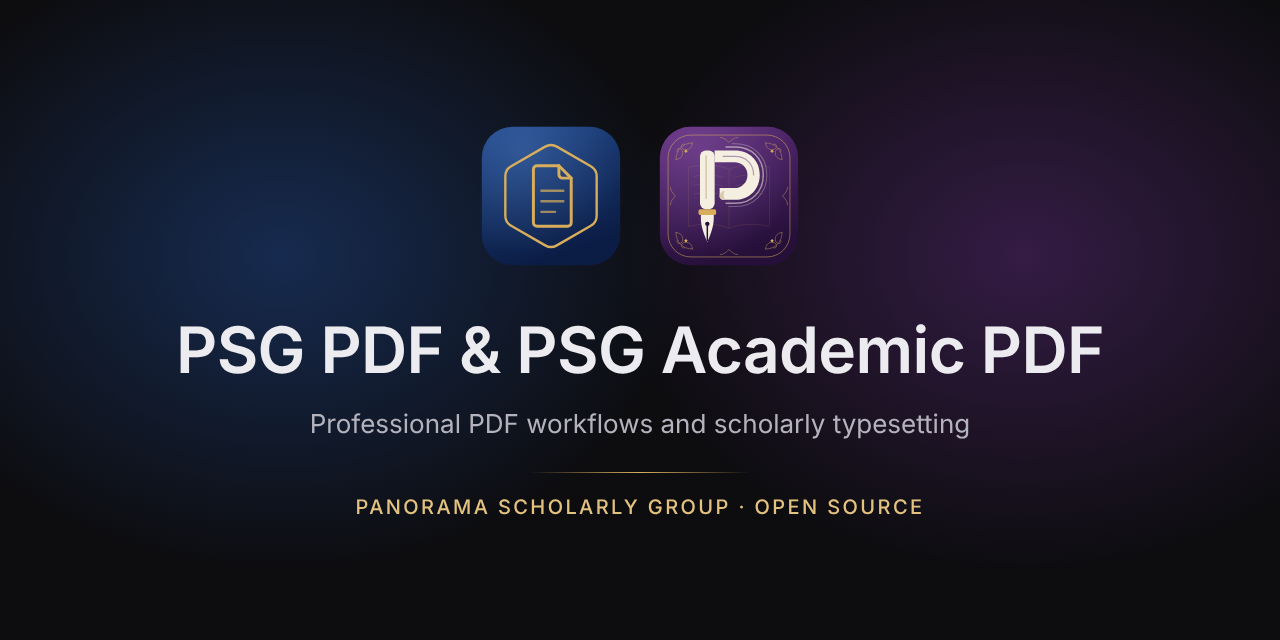
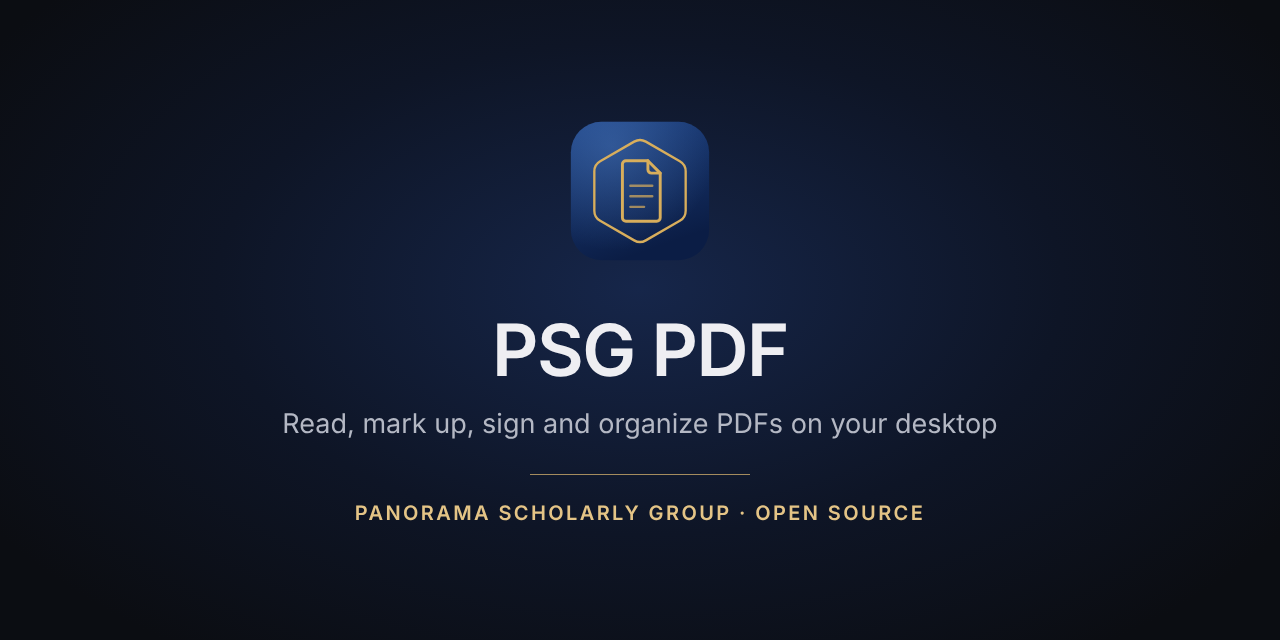
docs(site): the website presents PSG PDF alone
PSG Academic PDF is being retired, so the product site at
pdf.panorama-sg.com now presents only PSG PDF: one product's features, a
four-step workflow from opening a document to sending it, PSG PDF
downloads only, and no comparison section, Academic build tab or links.
The social preview card shows the PSG PDF icon alone.

Changelog: skip

Claude-Session: https://claude.ai/code/session_01VEnVhQqr23W3g1e5rYXvms

Changed region(s): [[0.0938, 0.0938, 0.9375, 0.8125]]

diff --git a/docs/index.html b/docs/index.html
@@ -3,14 +3,14 @@
 <head>
 <meta charset="utf-8">
 <meta name="viewport" content="width=device-width, initial-scale=1">
-<title>PSG PDF &amp; PSG Academic PDF</title>
-<meta name="description" content="Two open-source desktop applications from Panorama Scholarly Group: PSG PDF for professional PDF work, and PSG Academic PDF for typesetting accepted articles with pdfLaTeX.">
+<title>PSG PDF</title>
+<meta name="description" content="PSG PDF is an open-source desktop app from Panorama Scholarly Group for reading, commenting on, signing, organizing and protecting PDFs on Windows, macOS and Linux.">
 <meta name="theme-color" content="#181713">
 <meta property="og:type" content="website">
 <meta property="og:url" content="https://pdf.panorama-sg.com/">
 <link rel="canonical" href="https://pdf.panorama-sg.com/">
-<meta property="og:title" content="PSG PDF &amp; PSG Academic PDF">
-<meta property="og:description" content="Open-source desktop applications for professional PDF workflows and scholarly typesetting.">
+<meta property="og:title" content="PSG PDF">
+<meta property="og:description" content="An open-source desktop app for professional PDF work.">
 <meta property="og:image" content="https://pdf.panorama-sg.com/images/psg/social-preview.png">
 <meta name="twitter:card" content="summary_large_image">
 <link rel="icon" href="images/psg/psg-pdf.svg" type="image/svg+xml">
@@ -91,7 +91,7 @@ section { border-top: 1px solid var(--rule); padding-block: clamp(56px, 8vw, 112
 .mobile-nav summary::-webkit-details-marker { display: none; }
 
 .hero { border: 0; padding-block: clamp(44px, 7vw, 96px); }
-.hero .wrap, .screen-layout { display: grid; grid-template-columns: minmax(0, .95fr) minmax(0, 1.3fr); align-items: center; gap: clamp(28px, 5vw, 76px); }
+.hero .wrap { display: grid; grid-template-columns: minmax(0, .95fr) minmax(0, 1.3fr); align-items: center; gap: clamp(28px, 5vw, 76px); }
 .hero h1 { font-size: clamp(42px, 5vw, 76px); line-height: 1.02; letter-spacing: -.045em; }
 :lang(zh) .hero h1 { font-size: clamp(36px, 4.1vw, 60px); line-height: 1.18; letter-spacing: -.025em; }
 .hero .lede { margin-top: 20px; max-width: 42ch; }
@@ -105,6 +105,8 @@ section { border-top: 1px solid var(--rule); padding-block: clamp(56px, 8vw, 112
 
 .prod-row { display: grid; grid-template-columns: minmax(0, 1fr) minmax(0, 3fr); gap: clamp(20px, 4vw, 52px); border-top: 1px solid var(--rule); padding-block: 32px; }
 .prod-row:last-child { padding-bottom: 0; }
+.prod-row.solo { border-top: 0; padding-top: 0; }
+.prod-id h2 { font-size: clamp(28px, 3.2vw, 40px); line-height: 1.12; }
 .prod-id img { width: 44px; height: 44px; margin-bottom: 12px; }
 .prod-id p { color: var(--muted); font-size: 14px; margin-top: 8px; }
 .prod-id .note { border-left: 1px solid var(--edge); margin-top: 16px; padding-left: 12px; }
@@ -112,11 +114,12 @@ section { border-top: 1px solid var(--rule); padding-block: clamp(56px, 8vw, 112
 .card h4 { margin: 0 0 6px; font: 600 16px/1.3 var(--sans); }
 .card p { font-size: 14px; color: var(--muted); }
 
-#screens { background: var(--panel); }
-.screen-layout { grid-template-columns: minmax(0, .75fr) minmax(0, 1.25fr); }
-.screen-copy .lede { margin: 16px 0; }
-.screen-copy ul { margin: 0; padding-left: 20px; color: var(--muted); font-size: 15px; }
-.screen-copy li + li { margin-top: 8px; }
+#workflow { background: var(--panel); }
+.steps { list-style: none; counter-reset: step; margin: 0; padding: 0; display: grid; grid-template-columns: repeat(4, minmax(0, 1fr)); gap: clamp(20px, 3vw, 40px); }
+.steps li { counter-increment: step; border-top: 2px solid var(--edge); padding-top: 16px; }
+.steps li::before { content: counter(step); display: block; font: 600 40px/1 var(--serif); color: var(--accent); margin-bottom: 12px; }
+.steps h3 { font-size: 21px; }
+.steps p { margin-top: 8px; font-size: 14px; color: var(--muted); }
 
 .channel-line { display: flex; justify-content: space-between; align-items: baseline; flex-wrap: wrap; gap: 8px 16px; margin-bottom: 16px; }
 .channel-line h3 { font-size: 24px; }
@@ -149,15 +152,6 @@ pre { margin: 0; background: var(--panel); color: var(--ink); padding: 16px; ove
 pre .c { color: var(--muted); }
 pre .p { color: var(--accent); user-select: none; }
 
-.family { display: grid; grid-template-columns: repeat(2, minmax(0, 1fr)); gap: clamp(24px, 5vw, 64px); }
-.fam { border-top: 1px solid var(--edge); padding-top: 16px; }
-.fam h3 a { text-decoration-color: var(--edge); }
-.fam h3 a:hover { text-decoration-color: currentColor; }
-.fam dl { margin: 16px 0 0; font-size: 14px; }
-.fam dl div { display: grid; grid-template-columns: 6.5rem 1fr; gap: 8px; padding-block: 8px; border-bottom: 1px solid var(--rule); }
-.fam dt { font-weight: 600; }
-.fam dd { margin: 0; color: var(--muted); }
-.together { margin-top: 24px; color: var(--muted); font-size: 15px; max-width: 76ch; }
 .band { background: var(--panel); }
 .band .wrap { display: flex; flex-wrap: wrap; align-items: center; justify-content: space-between; gap: 24px; }
 .band .lede { margin-top: 8px; }
@@ -180,7 +174,8 @@ footer .fine { display: flex; justify-content: space-between; gap: 8px 16px; fle
   .cards { grid-template-columns: repeat(2, minmax(0, 1fr)); }
 }
 @media (max-width: 750px) {
-  .hero .wrap, .screen-layout, .prod-row { grid-template-columns: minmax(0, 1fr); }
+  .hero .wrap, .prod-row { grid-template-columns: minmax(0, 1fr); }
+  .steps { grid-template-columns: repeat(2, minmax(0, 1fr)); }
   .hero h1 { max-width: 16ch; }
   .platforms { grid-template-columns: minmax(0, 1fr); }
   footer .cols { grid-template-columns: repeat(2, minmax(0, 1fr)); }
@@ -189,7 +184,7 @@ footer .fine { display: flex; justify-content: space-between; gap: 8px 16px; fle
   .top .wrap, .tools { gap: 4px; }
   .tools .btn, .tools .chip { padding-inline: 8px; }
   .mark { gap: 4px; }
-  .family { grid-template-columns: minmax(0, 1fr); }
+  .steps { grid-template-columns: minmax(0, 1fr); }
 }
 @media (max-width: 350px) {
   .top .mark span { display: none; }
@@ -219,8 +214,7 @@ footer .fine { display: flex; justify-content: space-between; gap: 8px 16px; fle
     </a>
     <nav class="nav" aria-label="Page sections" data-zh-label="頁面導覽">
       <a href="#highlights" data-zh="功能">Features</a>
-      <a href="#screens" data-zh="截圖">Screenshots</a>
-      <a href="#family" data-zh="產品比較">Compare</a>
+      <a href="#workflow" data-zh="工作流程">Workflow</a>
       <a href="https://github.com/WENSHAO521/psg-pdf/blob/main/docs/README.md" data-zh="文件">Docs</a>
     </nav>
     <div class="tools">
@@ -231,8 +225,8 @@ footer .fine { display: flex; justify-content: space-between; gap: 8px 16px; fle
         <summary class="chip" aria-label="Menu" data-zh-label="選單"><svg aria-hidden="true"><use href="#i-menu"/></svg></summary>
         <nav aria-label="Page sections" data-zh-label="頁面導覽">
           <a href="#highlights" data-zh="功能">Features</a>
-          <a href="#screens" data-zh="截圖">Screenshots</a>
-          <a href="#family" data-zh="產品比較">Compare</a>
+          <a href="#workflow" data-zh="工作流程">Workflow</a>
+          <a href="#download" data-zh="下載">Download</a>
           <a href="https://github.com/WENSHAO521/psg-pdf/blob/main/docs/README.md" data-zh="文件">Docs</a>
         </nav>
       </details>
@@ -244,11 +238,11 @@ footer .fine { display: flex; justify-content: space-between; gap: 8px 16px; fle
 <section class="hero" id="top" aria-labelledby="hero-title">
   <div class="wrap">
     <div>
-      <h1 id="hero-title" data-zh="編輯 PDF，<br>排版期刊文章">Edit PDFs.<br>Typeset articles.</h1>
-      <p class="lede" data-zh="用 PSG PDF 審閱與整理文件。用 PSG Academic PDF 把已接受的稿件排成期刊 PDF。兩款都是在電腦上運作的開源應用程式。">Review and organize documents with PSG PDF. Typeset accepted manuscripts with PSG Academic PDF. Both are open-source desktop apps.</p>
+      <h1 id="hero-title" data-zh="閱讀、批註、<br>簽署 PDF">Read, mark up<br>and sign PDFs.</h1>
+      <p class="lede" data-zh="PSG PDF 是在你電腦上運作的開源 PDF 應用程式：審閱、填寫、簽署、整理與保護文件，檔案不必上傳。">PSG PDF is an open-source desktop app for reviewing, filling in, signing, organizing and protecting documents. Your files stay on your computer.</p>
       <div class="cta">
-        <a class="btn primary" href="#download"><svg aria-hidden="true"><use href="#i-download"/></svg><span data-zh="下載桌面版">Download the apps</span></a>
-        <a class="text-link" href="#family"><span data-zh="比較兩款工具">Compare the apps</span><svg aria-hidden="true"><use href="#i-arrow"/></svg></a>
+        <a class="btn primary" href="#download"><svg aria-hidden="true"><use href="#i-download"/></svg><span data-zh="下載 PSG PDF">Download PSG PDF</span></a>
+        <a class="text-link" href="#highlights"><span data-zh="看看功能">See what it does</span><svg aria-hidden="true"><use href="#i-arrow"/></svg></a>
       </div>
       <p class="platline">Windows · macOS · Linux</p>
     </div>
@@ -261,69 +255,45 @@ footer .fine { display: flex; justify-content: space-between; gap: 8px 16px; fle
 
 <section id="highlights">
   <div class="wrap">
-    <div class="sec-head">
-      <h2 data-zh="PDF 編輯與學術排版工具">PDF editing and scholarly typesetting</h2>
-      <p class="lede" data-zh="兩款是獨立產品，各有安裝程式、更新、設定與解除安裝，彼此不依賴；兩者都安裝時可以互相交接。">They are separate products, each with its own installer, updates, settings and uninstaller. Either works without the other, and they hand work to each other when both are installed.</p>
-    </div>
-
-    <div class="prod-row" id="psg-pdf">
+    <div class="prod-row solo" id="psg-pdf">
       <div class="prod-id">
         <img src="images/psg/psg-pdf.svg" alt="">
-        <h3>PSG PDF</h3>
+        <h2 data-zh="一個 PDF 工作台">One desk for every PDF</h2>
         <p data-zh="給閱讀、審閱、填寫、簽署或準備 PDF 的每個人。">For anyone who reads, reviews, fills in, signs or prepares PDFs.</p>
         <p class="note" data-zh="仍在成熟中：編輯既有文字以拉丁文字效果最好；OCR 讀拉丁文字；Word 匯出尚未保留版面。">Still maturing: editing existing text works best on Latin script, OCR reads Latin script, and Word export does not keep the layout yet.</p>
       </div>
       <div class="cards">
         <div class="card"><h4 data-zh="閱讀與導覽">Reading and navigation</h4><p data-zh="任何縮放都清晰；連續、單頁與雙頁版面，搜尋、書籤、縮圖與圖層。">Crisp at any zoom; continuous, single and two-up layouts, search, bookmarks, thumbnails and layers.</p></div>
         <div class="card"><h4 data-zh="批註與討論">Comments in threads</h4><p data-zh="螢光筆、便利貼、圖形、手繪與圖章，每則批註都能回覆。">Highlights, sticky notes, shapes, drawings and stamps, each with its own replies.</p></div>
-        <div class="card"><h4 data-zh="多語言簽名">Signatures in many scripts</h4><p data-zh="拉丁、中文、日文、韓文、阿拉伯文與希伯來文的手寫風格簽名，或憑證簽章。">Typed signatures in Latin, Chinese, Japanese, Korean, Arabic and Hebrew, or a certificate signature.</p></div>
+        <div class="card"><h4 data-zh="填寫與簽署">Fill in and sign</h4><p data-zh="填寫表單；拉丁、中文、日文、韓文、阿拉伯文與希伯來文的手寫風格簽名，或憑證簽章。">Fill in forms, then sign with a typed signature in Latin, Chinese, Japanese, Korean, Arabic or Hebrew script, or with a certificate.</p></div>
         <div class="card"><h4 data-zh="頁面整理">Page organization</h4><p data-zh="重排、旋轉、插入、刪除與裁切；合併與分割文件。">Reorder, rotate, insert, delete and crop; combine and split documents.</p></div>
         <div class="card"><h4 data-zh="保護與塗銷">Protect and redact</h4><p data-zh="密碼與權限、塗銷，以及移除隱藏資訊。">Passwords and permissions, redaction, and removal of hidden information.</p></div>
         <div class="card"><h4 data-zh="轉換與自動化">Convert and automate</h4><p data-zh="匯出圖片、Word、HTML、Markdown；OCR；隨附 <code>pdfcraft-cli</code> 批次處理。">Export to images, Word, HTML and Markdown; OCR; batch work with the bundled <code>pdfcraft-cli</code>.</p></div>
       </div>
     </div>
-
-    <div class="prod-row" id="psg-academic-pdf">
-      <div class="prod-id">
-        <img src="images/psg/psg-academic-pdf.svg" alt="">
-        <h3>PSG Academic PDF</h3>
-        <p data-zh="給準備已接受文章的期刊編輯、製作編輯與作者。">For journal editors, production editors and authors preparing accepted articles.</p>
-        <p class="note" data-zh="需要本機 TeX（TeX Live 或 MacTeX）。尚不支援 XeLaTeX、LuaLaTeX 與中日韓稿件。">Needs a local TeX (TeX Live or MacTeX). XeLaTeX, LuaLaTeX and Chinese, Japanese and Korean manuscripts are not supported yet.</p>
-      </div>
-      <div class="cards">
-        <div class="card"><h4 data-zh="期刊模板">Journal templates</h4><p data-zh="PSG 研究論文（編號引用），或人文社會科學論文（作者-年份與腳註）。">PSG Research Article (numbered) or Humanities and Social Sciences Article (author-year, footnotes).</p></div>
-        <div class="card"><h4 data-zh="匯入稿件">Bring the manuscript</h4><p data-zh="LaTeX 稿件，或 Word 稿件（實驗性，經 Pandoc），連同文獻與圖片。">A LaTeX manuscript, or Word (experimental, through Pandoc), with its bibliography and figures.</p></div>
-        <div class="card"><h4 data-zh="出版資訊檢查">Checked metadata</h4><p data-zh="輸入時檢查 DOI 格式、ISSN 與 ORCID 檢查碼，以及出版日期。">Validate DOI format, ISSN and ORCID check digits, and publication dates as you type.</p></div>
-        <div class="card"><h4 data-zh="參考文獻檢查">Clean references</h4><p data-zh="BibLaTeX 與 Biber；找出重複鍵、缺欄位、無條目的引用與未被引用的條目。">BibLaTeX with Biber; finds duplicate keys, missing fields, citations without entries and unused entries.</p></div>
-        <div class="card"><h4 data-zh="安全排版">Safe typesetting</h4><p data-zh="以 latexmk 執行 pdfLaTeX，沙箱中、關閉 shell escape、可取消。">pdfLaTeX through latexmk, sandboxed, shell escape off, cancellable.</p></div>
-        <div class="card"><h4 data-zh="多語介面">Multilingual interface</h4><p data-zh="英文、簡體中文、繁體中文、日文、韓文與德文。">English, Simplified Chinese, Traditional Chinese, Japanese, Korean and German.</p></div>
-      </div>
-    </div>
   </div>
 </section>
 
-<section id="screens">
-  <div class="wrap screen-layout">
-    <div class="screen-copy">
-      <h2 data-zh="從稿件到期刊校樣">From manuscript to journal proof</h2>
-      <p class="lede" data-zh="在 PSG Academic PDF 裡，出版資訊、LaTeX 原始碼與排版結果可以並排查看。">PSG Academic PDF puts publication metadata, LaTeX source and the typeset PDF side by side.</p>
-      <ul>
-        <li data-zh="輸入時檢查 DOI 和出版日期，驗證 ISSN 與 ORCID 檢查碼。">Check DOI format, publication dates and ISSN and ORCID check digits as you type.</li>
-        <li data-zh="用 pdfLaTeX 編譯校樣，再把完成的 PDF 交給 PSG PDF 審閱。">Compile a proof with pdfLaTeX, then open the finished PDF in PSG PDF for review.</li>
-      </ul>
+<section id="workflow">
+  <div class="wrap">
+    <div class="sec-head">
+      <h2 data-zh="一份文件從收到到送出">A document, from inbox to sent</h2>
+      <p class="lede" data-zh="同一個視窗完成整個流程，不需要切換其他工具。">The whole round trip happens in one window.</p>
     </div>
-    <figure class="shot-card">
-      <img src="images/psg/psg-academic-pdf.png" alt="PSG Academic PDF showing a journal article's metadata, LaTeX source and typeset preview" data-zh-alt="PSG Academic PDF 並排顯示期刊文章的出版資訊、LaTeX 原始碼與排版預覽" loading="lazy" width="1440" height="920">
-      <figcaption><span><strong>PSG Academic PDF</strong> · <span data-zh="期刊文章的工作區">Journal article workspace</span></span><a href="images/psg/psg-academic-pdf.png" data-zh="查看原尺寸">View full size</a></figcaption>
-    </figure>
+    <ol class="steps">
+      <li><h3 data-zh="開啟">Open</h3><p data-zh="開啟 PDF，或把圖片與其他文件合併成一份；掃描檔可以先做 OCR。">Open a PDF, or combine images and other files into one. Run OCR on a scan first.</p></li>
+      <li><h3 data-zh="審閱">Review</h3><p data-zh="標註、留言並回覆討論串。">Highlight, comment and reply in threads.</p></li>
+      <li><h3 data-zh="定稿">Finalize</h3><p data-zh="整理頁面、填寫表單並簽署；需要時塗銷敏感內容並設定密碼。">Arrange the pages, fill in the form and sign it. Redact what must not leave and add a password.</p></li>
+      <li><h3 data-zh="送出">Send</h3><p data-zh="另存為 PDF，或匯出成圖片、Word、HTML 與 Markdown。">Save the PDF, or export it as images, Word, HTML or Markdown.</p></li>
+    </ol>
   </div>
 </section>
 
 <section id="download">
   <div class="wrap">
     <div class="sec-head">
-      <h2 data-zh="下載桌面版">Download the apps</h2>
-      <p class="lede" data-zh="依作業系統選擇安裝檔。兩款工具可各自安裝，GitHub 發布頁提供 SHA-256 校驗碼。">Choose an installer for your operating system. The apps install separately, with SHA-256 checksums on the GitHub release page.</p>
+      <h2 data-zh="下載 PSG PDF">Download PSG PDF</h2>
+      <p class="lede" data-zh="依作業系統選擇安裝檔。GitHub 發布頁提供 SHA-256 校驗碼。">Choose an installer for your operating system. SHA-256 checksums are on the GitHub release page.</p>
     </div>
     <div class="channel-line">
       <h3><span data-zh="正式版">Stable release</span> <code id="dl-version" hidden></code></h3>
@@ -335,11 +305,10 @@ footer .fine { display: flex; justify-content: space-between; gap: 8px 16px; fle
         <div class="os"><svg aria-hidden="true"><use href="#i-win"/></svg><h4>Windows</h4><span class="here" data-zh="你的系統">Your system</span></div>
         <p class="req" data-zh="Windows 10 與 11，x64">Windows 10 and 11, x64</p>
         <a class="btn primary" href="https://github.com/WENSHAO521/psg-pdf/releases/latest" data-asset="psg-pdf|-windows-x64.msi"><svg aria-hidden="true"><use href="#i-download"/></svg>PSG PDF · MSI</a>
-        <a class="btn" href="https://github.com/WENSHAO521/psg-pdf/releases/latest" data-asset="psg-academic-pdf|-windows-x64.msi"><svg aria-hidden="true"><use href="#i-download"/></svg>PSG Academic PDF · MSI</a>
         <details class="alts">
           <summary data-zh="其他安裝格式">Other package formats</summary>
           <ul>
-            <li><span data-zh="免安裝">Portable</span><span class="fmt"><code>.zip</code> <a href="https://github.com/WENSHAO521/psg-pdf/releases/latest" data-asset="psg-pdf|-windows-x64-portable.zip" aria-label="PSG PDF · Windows portable ZIP" data-zh-label="PSG PDF · Windows 免安裝 ZIP">PSG PDF</a> · <a href="https://github.com/WENSHAO521/psg-pdf/releases/latest" data-asset="psg-academic-pdf|-windows-x64-portable.zip" aria-label="PSG Academic PDF · Windows portable ZIP" data-zh-label="PSG Academic PDF · Windows 免安裝 ZIP">Academic</a></span></li>
+            <li><span data-zh="免安裝">Portable</span><span class="fmt"><code>.zip</code> <a href="https://github.com/WENSHAO521/psg-pdf/releases/latest" data-asset="psg-pdf|-windows-x64-portable.zip" aria-label="PSG PDF · Windows portable ZIP" data-zh-label="PSG PDF · Windows 免安裝 ZIP">PSG PDF</a></span></li>
           </ul>
         </details>
       </div>
@@ -347,19 +316,17 @@ footer .fine { display: flex; justify-content: space-between; gap: 8px 16px; fle
         <div class="os"><svg aria-hidden="true"><use href="#i-mac"/></svg><h4>macOS</h4><span class="here" data-zh="你的系統">Your system</span></div>
         <p class="req" data-zh="macOS 11 或更新，Apple 晶片與 Intel">macOS 11 or later, Apple silicon and Intel</p>
         <a class="btn primary" href="https://github.com/WENSHAO521/psg-pdf/releases/latest" data-asset="psg-pdf|-macos-universal.dmg"><svg aria-hidden="true"><use href="#i-download"/></svg>PSG PDF · DMG</a>
-        <a class="btn" href="https://github.com/WENSHAO521/psg-pdf/releases/latest" data-asset="psg-academic-pdf|-macos-universal.dmg"><svg aria-hidden="true"><use href="#i-download"/></svg>PSG Academic PDF · DMG</a>
       </div>
       <div class="plat" data-os="linux">
         <div class="os"><svg aria-hidden="true"><use href="#i-linux"/></svg><h4>Linux</h4><span class="here" data-zh="你的系統">Your system</span></div>
         <p class="req">x86_64</p>
         <a class="btn primary" href="https://github.com/WENSHAO521/psg-pdf/releases/latest" data-asset="psg-pdf|-linux-x86_64.AppImage"><svg aria-hidden="true"><use href="#i-download"/></svg>PSG PDF · AppImage</a>
-        <a class="btn" href="https://github.com/WENSHAO521/psg-pdf/releases/latest" data-asset="psg-academic-pdf|-linux-x86_64.AppImage"><svg aria-hidden="true"><use href="#i-download"/></svg>PSG Academic PDF · AppImage</a>
         <details class="alts">
           <summary data-zh="其他安裝格式">Other package formats</summary>
           <ul>
-            <li><span>Debian, Ubuntu</span><span class="fmt"><code>.deb</code> <a href="https://github.com/WENSHAO521/psg-pdf/releases/latest" data-asset="psg-pdf|-linux-x86_64.deb" aria-label="PSG PDF · Debian and Ubuntu DEB" data-zh-label="PSG PDF · Debian 與 Ubuntu DEB">PSG PDF</a> · <a href="https://github.com/WENSHAO521/psg-pdf/releases/latest" data-asset="psg-academic-pdf|-linux-x86_64.deb" aria-label="PSG Academic PDF · Debian and Ubuntu DEB" data-zh-label="PSG Academic PDF · Debian 與 Ubuntu DEB">Academic</a></span></li>
-            <li><span>Fedora, openSUSE</span><span class="fmt"><code>.rpm</code> <a href="https://github.com/WENSHAO521/psg-pdf/releases/latest" data-asset="psg-pdf|-linux-x86_64.rpm" aria-label="PSG PDF · Fedora and openSUSE RPM" data-zh-label="PSG PDF · Fedora 與 openSUSE RPM">PSG PDF</a> · <a href="https://github.com/WENSHAO521/psg-pdf/releases/latest" data-asset="psg-academic-pdf|-linux-x86_64.rpm" aria-label="PSG Academic PDF · Fedora and openSUSE RPM" data-zh-label="PSG Academic PDF · Fedora 與 openSUSE RPM">Academic</a></span></li>
-            <li><span data-zh="任何發行版">Any distribution</span><span class="fmt"><code>.tar.gz</code> <a href="https://github.com/WENSHAO521/psg-pdf/releases/latest" data-asset="psg-pdf|-linux-x86_64.tar.gz" aria-label="PSG PDF · Linux compressed archive" data-zh-label="PSG PDF · Linux 壓縮檔">PSG PDF</a> · <a href="https://github.com/WENSHAO521/psg-pdf/releases/latest" data-asset="psg-academic-pdf|-linux-x86_64.tar.gz" aria-label="PSG Academic PDF · Linux compressed archive" data-zh-label="PSG Academic PDF · Linux 壓縮檔">Academic</a></span></li>
+            <li><span>Debian, Ubuntu</span><span class="fmt"><code>.deb</code> <a href="https://github.com/WENSHAO521/psg-pdf/releases/latest" data-asset="psg-pdf|-linux-x86_64.deb" aria-label="PSG PDF · Debian and Ubuntu DEB" data-zh-label="PSG PDF · Debian 與 Ubuntu DEB">PSG PDF</a></span></li>
+            <li><span>Fedora, openSUSE</span><span class="fmt"><code>.rpm</code> <a href="https://github.com/WENSHAO521/psg-pdf/releases/latest" data-asset="psg-pdf|-linux-x86_64.rpm" aria-label="PSG PDF · Fedora and openSUSE RPM" data-zh-label="PSG PDF · Fedora 與 openSUSE RPM">PSG PDF</a></span></li>
+            <li><span data-zh="任何發行版">Any distribution</span><span class="fmt"><code>.tar.gz</code> <a href="https://github.com/WENSHAO521/psg-pdf/releases/latest" data-asset="psg-pdf|-linux-x86_64.tar.gz" aria-label="PSG PDF · Linux compressed archive" data-zh-label="PSG PDF · Linux 壓縮檔">PSG PDF</a></span></li>
           </ul>
         </details>
       </div>
@@ -375,7 +342,6 @@ footer .fine { display: flex; justify-content: space-between; gap: 8px 16px; fle
       <summary data-zh="從原始碼建置">Build from source</summary>
       <div class="tabs" role="tablist" aria-label="Build instructions" data-zh-label="建置說明">
         <button role="tab" aria-selected="true" aria-controls="b-pdf" id="t-pdf">PSG PDF</button>
-        <button role="tab" aria-selected="false" tabindex="-1" aria-controls="b-ac" id="t-ac">PSG Academic PDF</button>
         <button role="tab" aria-selected="false" tabindex="-1" aria-controls="b-test" id="t-test" data-zh="測試">Tests</button>
       </div>
       <pre role="tabpanel" tabindex="0" id="b-pdf" aria-labelledby="t-pdf"><span class="c"># Rust 1.95 or newer</span>
@@ -383,42 +349,8 @@ footer .fine { display: flex; justify-content: space-between; gap: 8px 16px; fle
 <span class="p">$ </span>cd psg-pdf
 <span class="p">$ </span>cargo build --release -p psg-pdf
 <span class="p">$ </span>./target/release/psg-pdf sample.pdf</pre>
-      <pre role="tabpanel" tabindex="0" id="b-ac" aria-labelledby="t-ac" hidden><span class="c"># Needs TeX Live or MacTeX with latexmk and Biber to typeset</span>
-<span class="p">$ </span>git clone https://github.com/WENSHAO521/psg-pdf.git
-<span class="p">$ </span>cd psg-pdf
-<span class="p">$ </span>cargo build --release -p psg-academic-pdf
-<span class="p">$ </span>./target/release/psg-academic-pdf</pre>
-      <pre role="tabpanel" tabindex="0" id="b-test" aria-labelledby="t-test" hidden><span class="p">$ </span>cargo test -p psg-academic-pdf
-<span class="p">$ </span>cargo test -p psg-pdf
-<span class="p">$ </span>cargo xtask products check   <span class="c"># both products' identities agree</span></pre>
+      <pre role="tabpanel" tabindex="0" id="b-test" aria-labelledby="t-test" hidden><span class="p">$ </span>cargo test -p psg-pdf</pre>
     </details>
-  </div>
-</section>
-
-<section id="family">
-  <div class="wrap">
-    <div class="sec-head">
-      <h2 data-zh="我需要哪一款？">Which app do I need?</h2>
-    </div>
-    <div class="family">
-      <article class="fam">
-        <h3><a href="#psg-pdf">PSG PDF</a></h3>
-        <dl>
-          <div><dt data-zh="適用工作">Use it to</dt><dd data-zh="審閱、簽署或整理既有 PDF。">Review, sign or reorganize an existing PDF.</dd></div>
-          <div><dt data-zh="開啟">Opens</dt><dd><code>.pdf</code></dd></div>
-          <div><dt data-zh="主要工具">Tools</dt><dd data-zh="批註、表單、簽名、頁面整理、塗銷、OCR 與匯出。">Comments, forms, signatures, page organizer, redaction, OCR and export.</dd></div>
-        </dl>
-      </article>
-      <article class="fam">
-        <h3><a href="#psg-academic-pdf">PSG Academic PDF</a></h3>
-        <dl>
-          <div><dt data-zh="適用工作">Use it to</dt><dd data-zh="用稿件與期刊模板製作新的文章 PDF。">Typeset a new article PDF from a manuscript and a journal template.</dd></div>
-          <div><dt data-zh="開啟">Opens</dt><dd data-zh="<code>.tex</code>、<code>.docx</code> 稿件與專案"><code>.tex</code> and <code>.docx</code> manuscripts, and saved projects</dd></div>
-          <div><dt data-zh="主要工具">Tools</dt><dd data-zh="模板、出版資訊、文獻檢查、原始碼編輯器與 pdfLaTeX 預覽。">Templates, metadata, bibliography checks, source editor and pdfLaTeX preview.</dd></div>
-        </dl>
-      </article>
-    </div>
-    <p class="together" data-zh="同時安裝兩款工具時，在 PSG Academic PDF 選擇「在 PSG PDF 中開啟」，即可交接完成的文章。">With both apps installed, choose Open in PSG PDF from PSG Academic PDF to hand off a finished article for review.</p>
   </div>
 </section>
 
@@ -440,11 +372,11 @@ footer .fine { display: flex; justify-content: space-between; gap: 8px 16px; fle
   <div class="wrap">
     <div class="cols">
       <div>
-        <div class="brandline"><img src="images/psg/psg-pdf.svg" alt=""><img src="images/psg/psg-academic-pdf.svg" alt="" style="margin-left:-9px">Panorama Scholarly Group</div>
-        <p data-zh="專業 PDF 工作與學術排版的開源桌面軟體。建立在 ArtCraft 團隊的 PdfCraft PDF 引擎上（MIT OR Apache-2.0）。">Open-source desktop software for professional PDF work and scholarly typesetting. Built on the PdfCraft PDF engine by the ArtCraft team (MIT OR Apache-2.0).</p>
+        <div class="brandline"><img src="images/psg/psg-pdf.svg" alt="">Panorama Scholarly Group</div>
+        <p data-zh="專業 PDF 工作的開源桌面軟體。建立在 ArtCraft 團隊的 PdfCraft PDF 引擎上（MIT OR Apache-2.0）。">Open-source desktop software for professional PDF work. Built on the PdfCraft PDF engine by the ArtCraft team (MIT OR Apache-2.0).</p>
       </div>
-      <div><h4 data-zh="產品">Products</h4><ul><li><a href="#psg-pdf">PSG PDF</a></li><li><a href="#psg-academic-pdf">PSG Academic PDF</a></li><li><a href="https://github.com/WENSHAO521/psg-pdf/releases" data-zh="所有版本">Releases</a></li><li><a href="https://github.com/WENSHAO521/psg-pdf/blob/main/CHANGELOG.md" data-zh="更新紀錄">Changelog</a></li></ul></div>
-      <div><h4 data-zh="資源">Resources</h4><ul><li><a href="https://github.com/WENSHAO521/psg-pdf/blob/main/docs/README.md" data-zh="文件中心">Documentation</a></li><li><a href="https://github.com/WENSHAO521/psg-pdf/blob/main/docs/academic-guide.md" data-zh="Academic 指南">Academic guide</a></li><li><a href="https://github.com/WENSHAO521/psg-pdf/blob/main/docs/building.md" data-zh="從原始碼建置">Building</a></li><li><a href="https://github.com/WENSHAO521/psg-pdf/blob/main/docs/brand.md" data-zh="品牌規範">Brand guide</a></li></ul></div>
+      <div><h4>PSG PDF</h4><ul><li><a href="#psg-pdf" data-zh="功能">Features</a></li><li><a href="#download" data-zh="下載">Download</a></li><li><a href="https://github.com/WENSHAO521/psg-pdf/releases" data-zh="所有版本">Releases</a></li><li><a href="https://github.com/WENSHAO521/psg-pdf/blob/main/CHANGELOG.md" data-zh="更新紀錄">Changelog</a></li></ul></div>
+      <div><h4 data-zh="資源">Resources</h4><ul><li><a href="https://github.com/WENSHAO521/psg-pdf/blob/main/docs/README.md" data-zh="文件中心">Documentation</a></li><li><a href="https://github.com/WENSHAO521/psg-pdf/blob/main/docs/building.md" data-zh="從原始碼建置">Building</a></li><li><a href="https://github.com/WENSHAO521/psg-pdf/blob/main/docs/brand.md" data-zh="品牌規範">Brand guide</a></li></ul></div>
       <div><h4 data-zh="社群">Community</h4><ul><li><a href="https://github.com/WENSHAO521/psg-pdf">GitHub</a></li><li><a href="https://github.com/WENSHAO521/psg-pdf/issues" data-zh="問題回報">Issues</a></li><li><a href="https://github.com/WENSHAO521/psg-pdf/blob/main/ATTRIBUTION.md" data-zh="資產授權">Asset licences</a></li><li><a href="https://panorama-sg.com/" data-zh="PSG 官網">Panorama Scholarly Group</a></li></ul></div>
     </div>
     <div class="fine"><span>© Panorama Scholarly Group · MIT OR Apache-2.0</span><span data-zh="本網站不使用 Cookie、不追蹤訪客；字體由 Google Fonts 提供。">This site sets no cookies and does no tracking. Fonts are served by Google Fonts.</span></div>

diff --git a/ATTRIBUTION.md b/ATTRIBUTION.md
@@ -310,7 +310,7 @@ Every asset PSG PDF includes, bundles or uses to build its published material, w
 | `templates/academic/psg-humanities/template.toml` | PSG Humanities and Social Sciences Article template: template.toml | PSG PDF contributors | MIT OR Apache-2.0 | Contributor-original (templates/academic/README.md) | Journal template compiled into PSG Academic PDF (crates/academic/src/template.rs) and copied into new projects |
 | `docs/images/psg/psg-pdf.svg` | PSG PDF app icon (website copy) | PSG PDF contributors | MIT OR Apache-2.0 | Contributor-original, a copy of assets/app-icon/psg-pdf.svg, rendered from assets/brand/psg-logo-master.svg | Logo and favicon on the product website (docs/index.html, GitHub Pages) |
 | `docs/images/psg/psg-academic-pdf.svg` | PSG Academic PDF app icon (website copy) | PSG PDF contributors | MIT OR Apache-2.0 | Contributor-original, a copy of assets/app-icon-academic/psg-academic-pdf.svg, rendered from assets/brand/psg-logo-master.svg | Logo on the product website (docs/index.html, GitHub Pages) |
-| `docs/images/psg/social-preview.png` | PSG social preview card (1280x640) | PSG PDF contributors | MIT OR Apache-2.0 | Contributor-original, rendered with Chromium from the two app icons and text set in Inter (OFL-1.1) | Open Graph image of the product website and the repository's social preview |
+| `docs/images/psg/social-preview.png` | PSG social preview card (1280x640) | PSG PDF contributors | MIT OR Apache-2.0 | Contributor-original, rendered with Chromium from the PSG PDF app icon and text set in Inter (OFL-1.1) | Open Graph image of the product website and the repository's social preview |
 
 ## Compiled in through dependencies (7)
 
